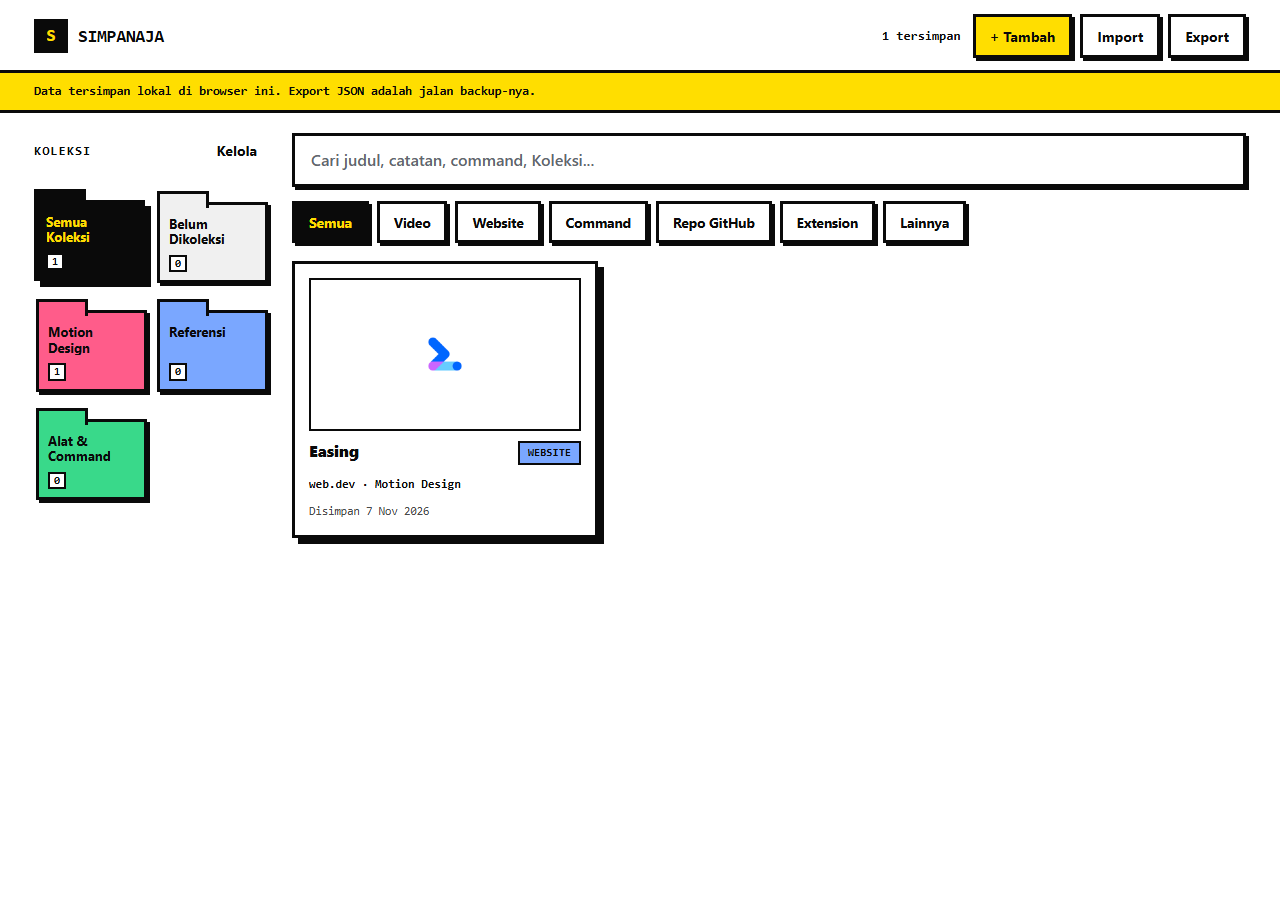
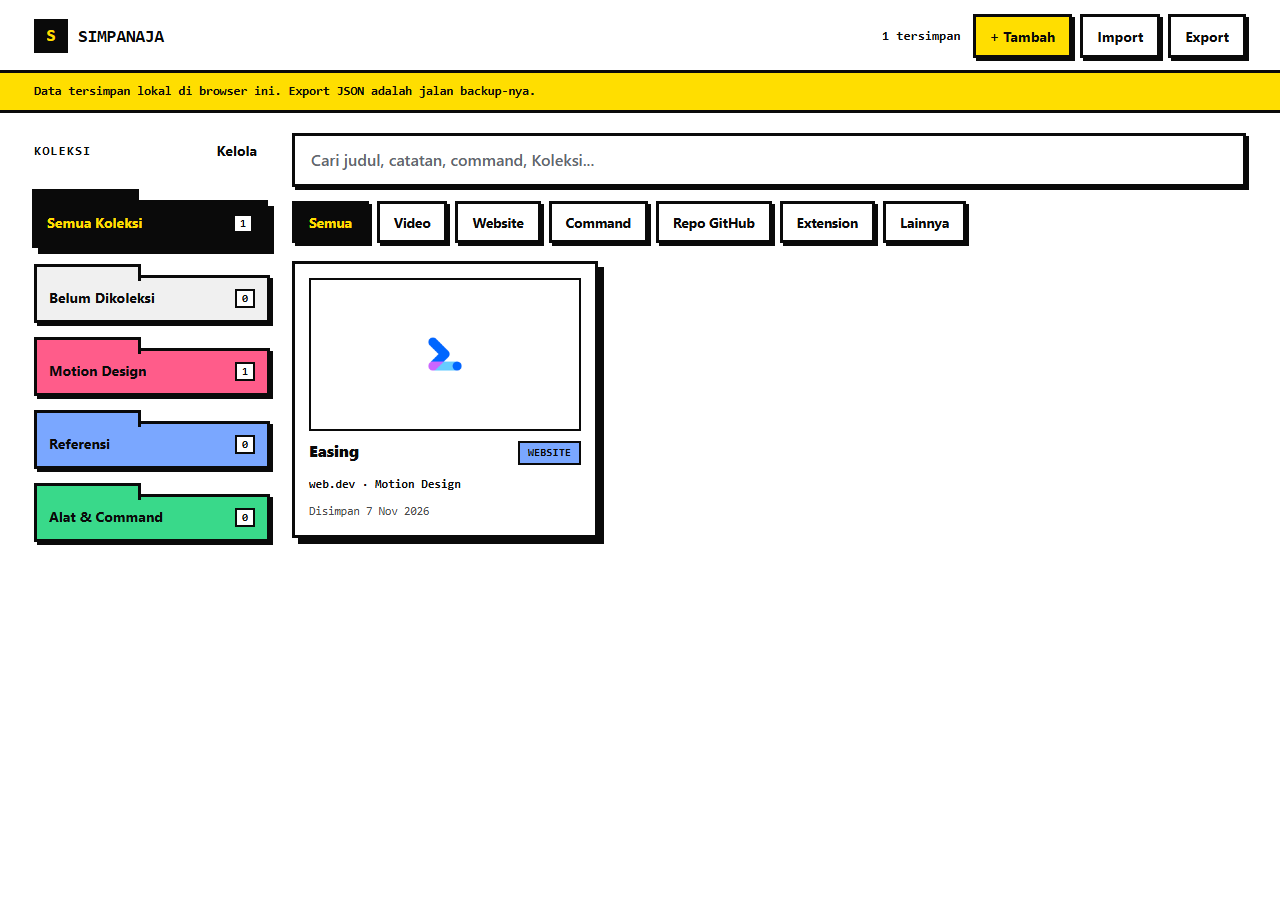
style(koleksi): folder memanjang (bar) lagi, bukan kotak

Changed region(s): [[0.0, 0.1867, 0.2188, 0.6222]]

diff --git a/app/styles.css b/app/styles.css
@@ -130,20 +130,17 @@ h1, h2, h3 { margin: 0; font-family: var(--mono); font-weight: 800; letter-spaci
 .sidebar-head { display: flex; align-items: center; justify-content: space-between; margin-bottom: 10px; gap: 8px; }
 .sidebar-head h2 { font-size: 13px; letter-spacing: .08em; color: var(--ink); }
 
-/* Folder Koleksi: grid kotak (bukan bar), jumlah kolom ikut lebar layar. */
-.collection-list { display: grid; grid-template-columns: repeat(auto-fill, minmax(150px, 1fr)); gap: 16px 10px; padding: 12px 2px 6px; }
-@media (min-width: 1024px) {
-  /* Kotak folder dua kolom di sidebar sempit. */
-  .collection-list { grid-template-columns: repeat(2, minmax(0, 1fr)); gap: 16px 10px; }
-}
+/* Folder Koleksi: bar memanjang selebar kolom (bukan kotak). */
+.collection-list { display: flex; flex-direction: column; gap: 12px; padding: 12px 0 6px; }
+@media (min-width: 1024px) { .collection-list { gap: 14px; } }
 .collection-item {
   position: relative;
-  display: flex; flex-direction: column; align-items: flex-start; justify-content: space-between; gap: 8px;
-  width: 100%; min-height: 64px; padding: 11px 9px 8px; margin-top: 11px; flex: 0 0 auto;
+  display: flex; align-items: center; justify-content: space-between; gap: 10px;
+  width: 100%; min-height: 48px; padding: 8px 12px; margin-top: 11px; flex: 0 0 auto;
   background: var(--folder, var(--accent));
   border: var(--bw) solid var(--ink); border-radius: 0;
   box-shadow: var(--shadow-sm); color: var(--ink);
-  font: inherit; font-size: 13px; font-weight: 700; line-height: 1.2; text-align: left;
+  font: inherit; font-size: 14px; font-weight: 700; line-height: 1.2; text-align: left;
 }
 /* Tab folder di atas (warna sama dengan badan) */
 .collection-item::before {
@@ -152,8 +149,7 @@ h1, h2, h3 { margin: 0; font-family: var(--mono); font-weight: 800; letter-spaci
   border: var(--bw) solid var(--ink); border-bottom: none;
 }
 .collection-item .collection-name {
-  overflow: hidden; display: -webkit-box; -webkit-line-clamp: 2; -webkit-box-orient: vertical;
-  overflow-wrap: anywhere;
+  overflow: hidden; text-overflow: ellipsis; white-space: nowrap;
 }
 .collection-item.is-all { background: var(--ink); color: var(--accent); }
 .collection-item.is-all::before { background: var(--ink); }
@@ -163,7 +159,7 @@ h1, h2, h3 { margin: 0; font-family: var(--mono); font-weight: 800; letter-spaci
 .collection-item[aria-current="true"] { box-shadow: 6px 6px 0 var(--ink); transform: translate(-2px, -2px); }
 .collection-item .count {
   font-family: var(--mono); color: var(--ink); font-size: 11px; font-weight: 700;
-  background: var(--surface); border: 2px solid var(--ink); padding: 0 4px; flex: 0 0 auto;
+  background: var(--surface); border: 2px solid var(--ink); padding: 1px 5px; flex: 0 0 auto;
 }
 .collection-item.is-all .count { color: var(--ink); }
 .collection-item.is-none .count { color: var(--ink); }

diff --git a/EXECUTION-LOG.md b/EXECUTION-LOG.md
@@ -223,3 +223,5 @@ Rencana: `PLAN.md`. Spec: `SPECS.md`. Bukan repo git (sesuai spec), jadi tak ada
 - Dialog Kelola Koleksi: nama di baris sendiri, lalu jumlah + Hapus, lalu swatch warna.
 - URL di halaman detail dibungkus di HP agar terbaca penuh.
 - Tes: 51 pass, 0 fail. QA qa/final-qa.mjs 14/14 (termasuk kriteria 11 tanpa overflow 390px); qa/manual-image.mjs 5/5. Bukti: qa/m-home.png, qa/m-detail.png, qa/m-manage.png, qa/m-form.png (menggantikan qa/collections-mobile.png).
+
+- Koleksi kembali jadi folder memanjang (bar selebar kolom, tab folder di atas, nama satu baris + lencana jumlah di kanan); berlaku desktop dan HP. Bukti: qa/collections-sidebar.png, qa/collections-mobile.png.
